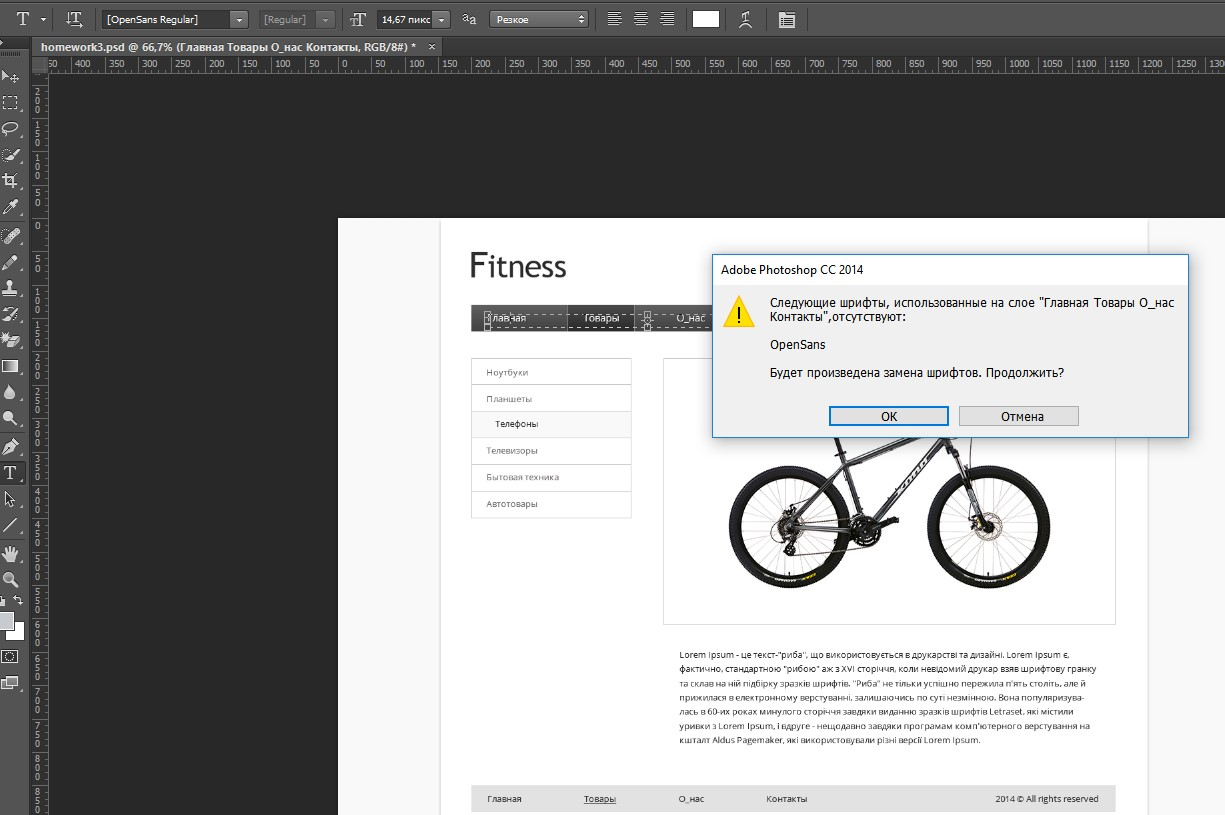
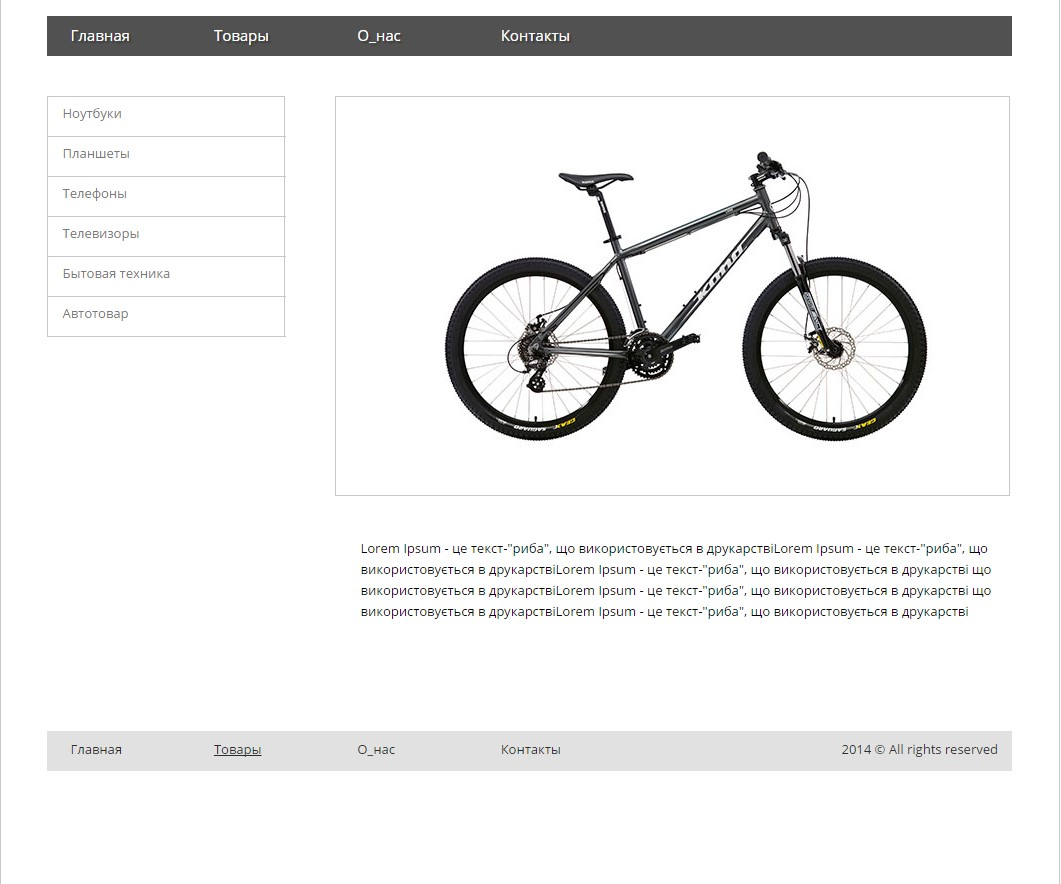
Lesson_2a Края блока, размеры другого бл

diff --git a/Mark/Lesson_4/css/style.css b/Mark/Lesson_4/css/style.css
@@ -27,12 +27,11 @@
 .header_l {
     width: 283px;
     margin-left: 28px;
-    margin-top: 10px;
-    border: 1px solid black;
+    margin-top: 8px;
+
 }
 .header_r {
     height: 164px;
-    border: 1px solid black;
     float: right;
     margin-top: 10px;
 }
@@ -41,24 +40,71 @@
     width: 160px;
     float: right;
     color: #5fa5bb;
-    font-family: "Tahoma Regular";
+    font-family: "Tahoma Regular", serif;
     font-size: 12px;
+}
+.flags {
+    clear: both;
+    height: 80px;
+    width: 360px;
+    float: right;
+}
+.navigation {
+margin-top: 13px;
+}
+.navigation li {
+    float: left;
+    margin-right: 8px;
 
 }
-.flags_country {
-    clear: both;
-    height: 60px;
-    width: 340px;
-    float: right;
-    border: 1px solid black;
+.navigation li a {
+    display: block;
+    text-align: center;
+    font-size: 10px;
+    padding-top: 42px; /* внутренний остту чтобы текст был вне фона */
+    color: #128aa7;
+    /* выравниваем фон вверх и по центру */
+    background: no-repeat center top;
+    width: 48px; /* размеры указываем чтобы картинки полностью отобразились */
+    height: 50px;
 }
-.flags img {
-    margin-left: 3px;
+.navigation .india a {
+    background-image: url("../img/India.png");
 }
-h6 {
-    display: inline;
+.navigation .nepal a {
+    background-image: url("../img/Nepal.png");
+}
+.navigation .tibet a {
+    background-image: url("../img/Tibet.png");
+}
+.navigation .bhutan a {
+    background-image: url("../img/Bhutan.png");
+}
+.navigation .sri-lanka a {
+    background-image: url("../img/Sri-Lanka.png");
+}
+.navigation .maldives a {
+    background-image: url("../img/Maldives.png");
 }
 .picture {
-    border-top:    1px solid #128aa7;
-    border-bottom: 1px solid #128aa7;
+    height: 237px;
 }
+.main_menu {
+    height: 29px;
+    background-color: #333333;
+    color: #ffffff;
+    font-family: "Tahoma Regular", serif;
+    font-size: 14px;
+    border-bottom: 1px solid #000000;
+}
+.menu li {
+    display: inline-block;
+    text-align: center;
+    margin-top: 8px;
+    width: 145px;
+}
+li.with_sub_menu:after {
+    content: url("../img/triangle.png");
+    margin-left: 8px;
+}
+

diff --git a/Mark/Lesson_4/index.html b/Mark/Lesson_4/index.html
@@ -21,34 +21,30 @@
                         info@asia-holidays.com
                     </p>
                 </div>
-                <div class="flags_country">
-                    <div class="flags">
-                        <img src="img/India.png">
-                        <img src="img/Nepal.png">
-                        <img src="img/Tibet.png">
-                        <img src="img/Bhutan.png">
-                        <img src="img/Sri-Lanka.png">
-                        <img src="img/Maldives.png">
-
-                    </div>
-                    <div class="country">
-                       <!-- <h6>Индия</h6>
-                        <h6>Непал</h6>
-                        <h6>Тибет</h6>
-                        <h6>Бутан</h6>
-                        <h6>Шри-Ланка</h6>
-                        <h6>Мальдивы</h6>-->
-
-                    </div>
+                <div class="flags">
+                        <ul class="navigation">
+                            <li class="india"><a href="#">Индия</a></li>
+                            <li class="nepal"><a href="#">Непал</a></li>
+                            <li class="tibet"><a href="#">Тибет</a></li>
+                            <li class="bhutan"><a href="#">Бутан</a></li>
+                            <li class="sri-lanka"><a href="#">Шри-Ланка</a></li>
+                            <li class="maldives"><a href="#">Мальдивы</a></li>
+                        </ul>
                 </div>
             </div>
         </div>
         <div class="picture">
             <img src="img/photo.jpg" alt="Скоро.." title="Лепота">
-
         </div>
-        <div class="menu">
-
+        <div class="main_menu">
+            <ul class="menu">
+                <li>Главная</li>
+                <li class="with_sub_menu">Путешествие</li>
+                <li class="with_sub_menu">Услуги</li>
+                <li class="with_sub_menu">Партнерам</li>
+                <li>Отзывы клиентов</li>
+                <li>О нас</li>
+            </ul>
         </div>
         <div class="content">
             <div class="cont_l">

diff --git a/Mark/Lesson_2a/css/style.css b/Mark/Lesson_2a/css/style.css
@@ -95,6 +95,7 @@ a {
 .listN li:hover{
     padding-top: 10px;
     padding-left: 20px;
+    width: 237px;
     border-right: 1px solid #c8c8c8;
     background-color: #f9f9f9;
     color: #2c2c2c;
@@ -104,20 +105,21 @@ a {
 }
 .bord {
     width: 100%;
+    height: 400px;
     border: 1px solid #c8c8c8;
 }
 .img {
     height: 400px;
     margin-left: 100px;
-    margin-top: 90px;
+    margin-top: 46px;
     }
 .fullLatter {
     margin-left: 26px;
-    margin-top: 42px;
+    margin-top: 32px;
     line-height: 21px;
     }
 .footer {
-    margin-top: 80px;
+    margin-top: 35px;
     background-color: #e1e1e1;
     position: relative;
     text-decoration: none;
